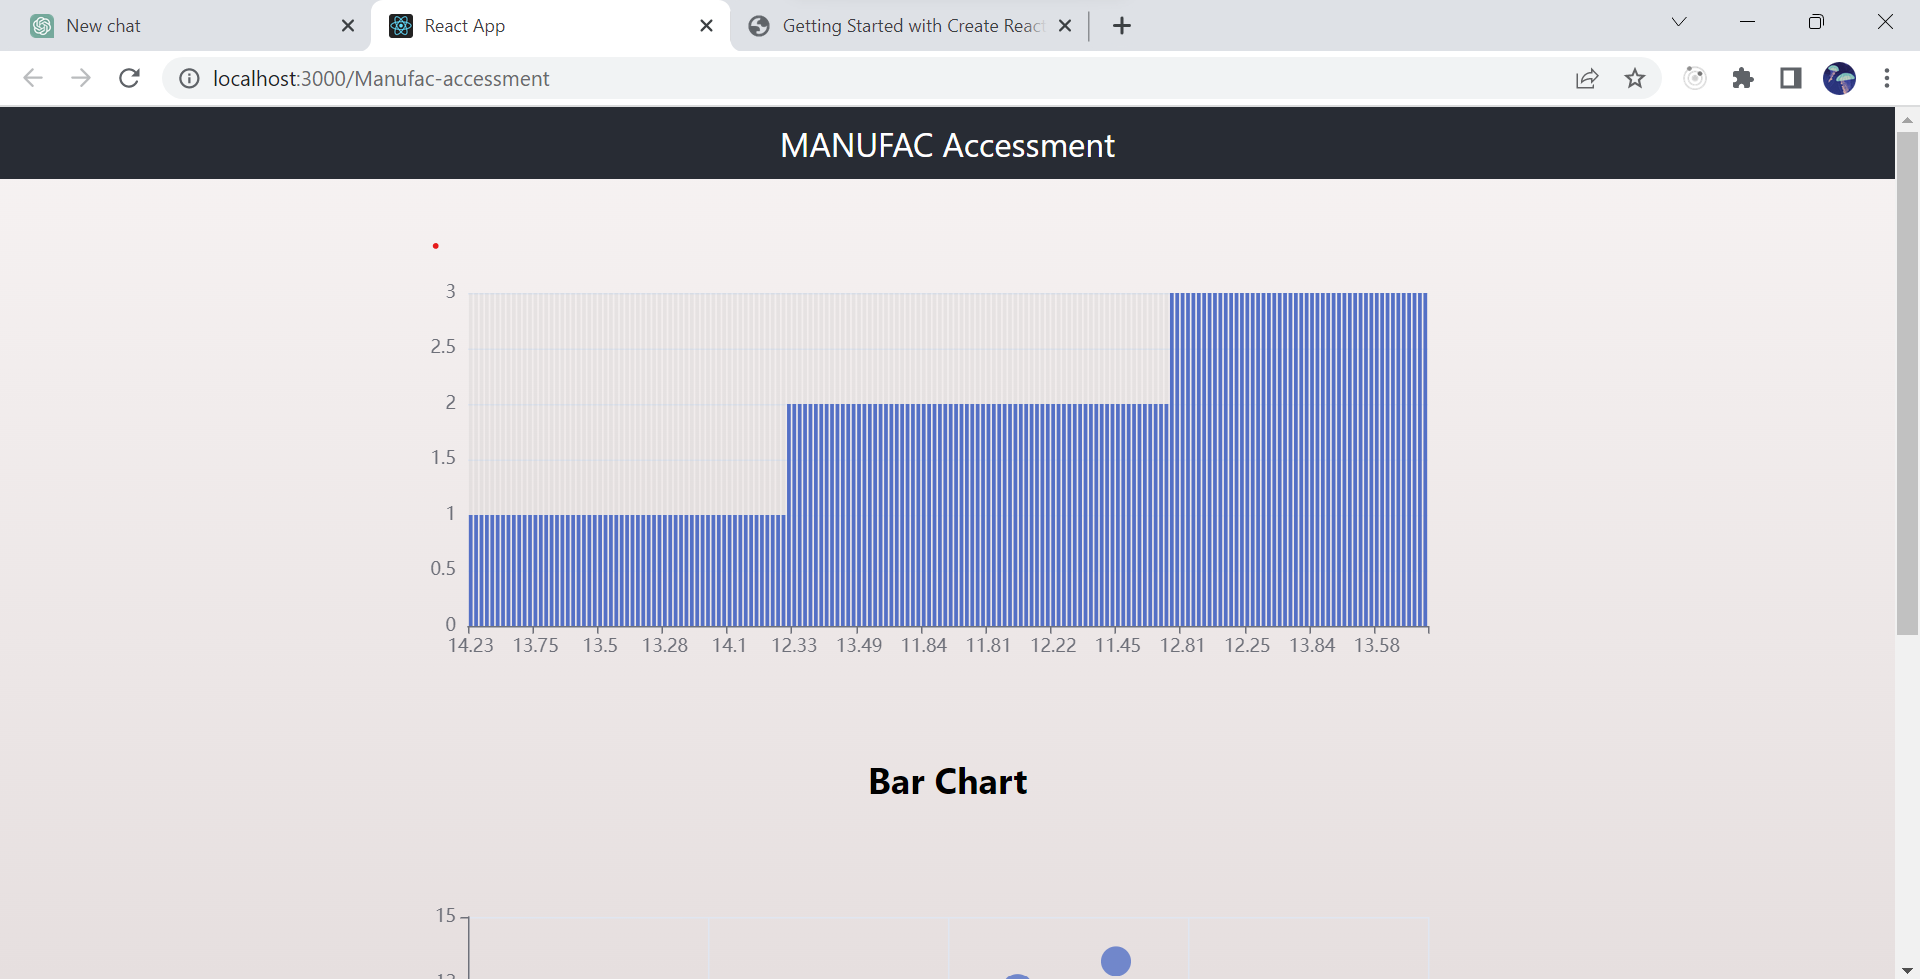
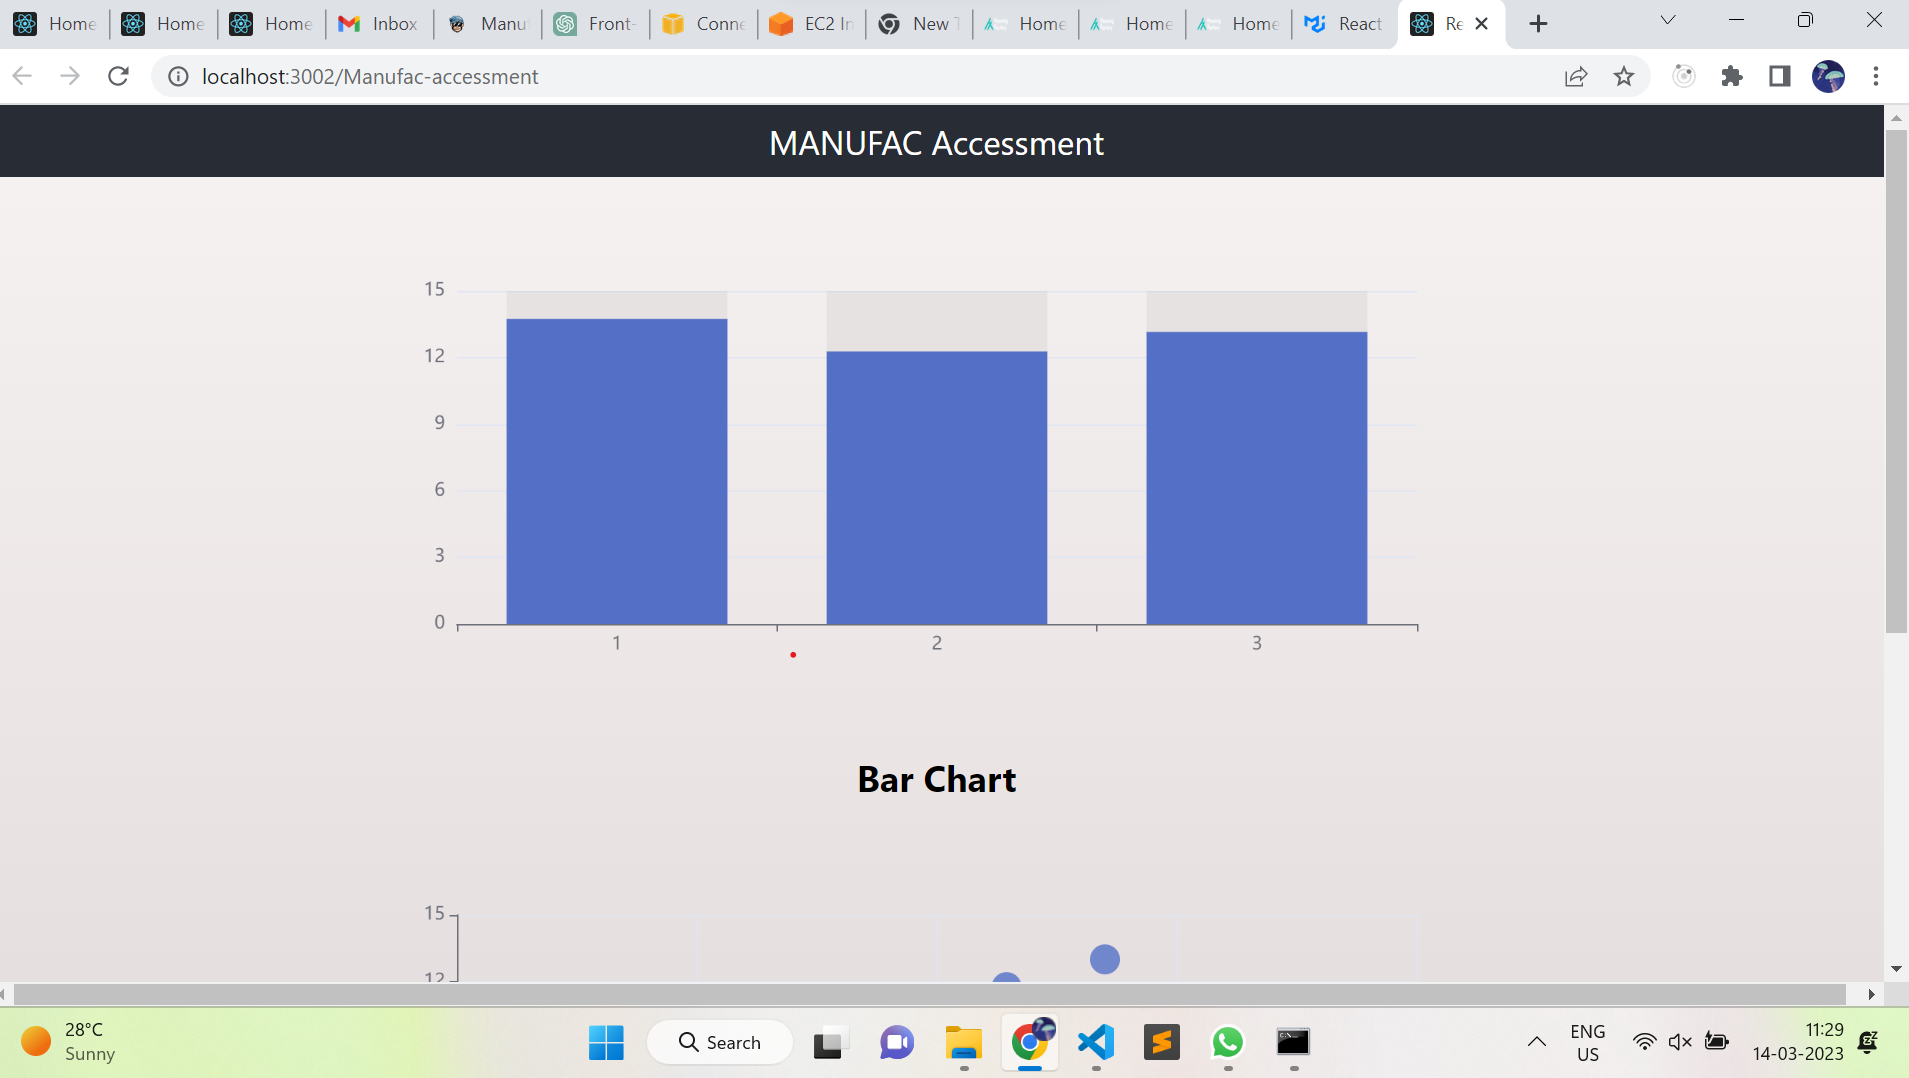
issue solved realted to bar chart

diff --git a/src/App.tsx b/src/App.tsx
@@ -33,10 +33,23 @@ function App() {
   }
   
   function getBarData(): void {
+    const array1 :{value:number,count:number}[] = [];
     data.forEach((obj) => {
-      barData.first.push(obj["Malic Acid"]);
-      barData.second.push(obj["Alcohol"]);
+      if(array1[obj["Alcohol"]-1]){
+
+        array1[obj["Alcohol"]-1].value += obj["Malic Acid"]
+        array1[obj["Alcohol"]-1].count += 1
+      }else{
+        array1[obj["Alcohol"]-1] = {value:0,count:0}
+        array1[obj["Alcohol"]-1].value = obj["Malic Acid"]
+        array1[obj["Alcohol"]-1].count = 1
+      }
     })
+    array1.forEach((el,ind)=>{
+      barData.first.push(ind+1);
+      barData.second.push(el.value/el.count);
+    })
+
   }
   
   useEffect(() => {
